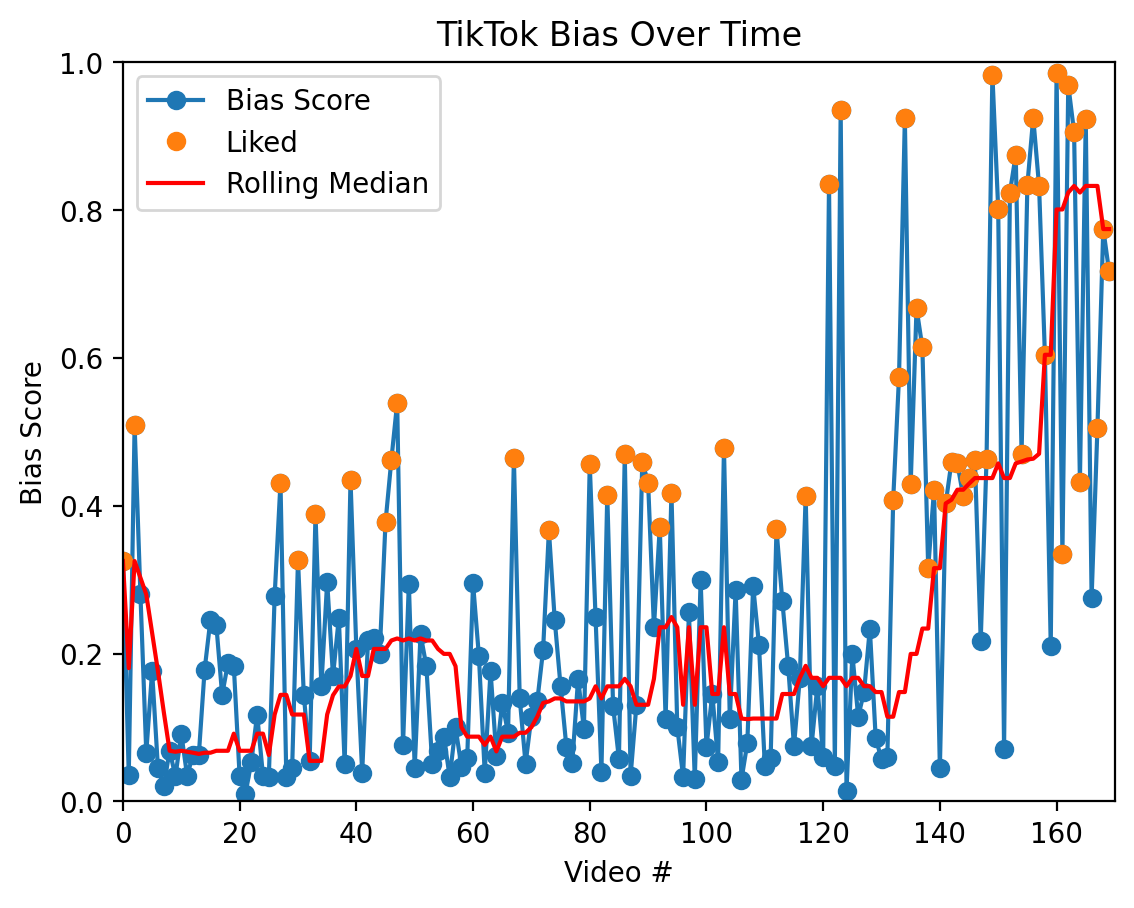
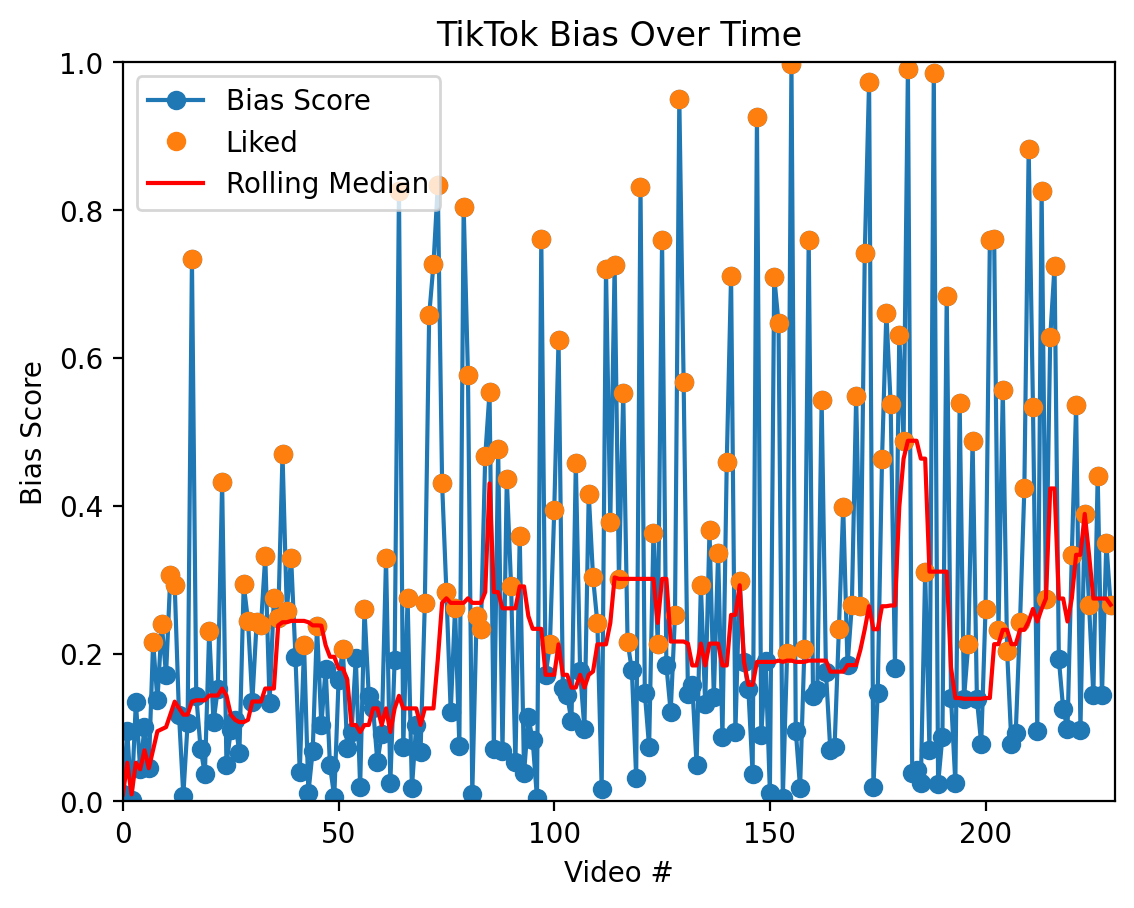
new weights + bug fix
- changed weight values to optimize for complexity
- continues anyways when running into a URL webscraping failiure

Changed region(s): [[0.0926, 0.0617, 0.9877, 0.9251], [0.9259, 0.8943, 0.9568, 0.9251]]

diff --git a/main.py b/main.py
@@ -50,14 +50,21 @@ def genericRunner():
 
         print("getting url...")
         
-        # get url and scrape
-        try:
-            url = webdriver.getUrl()
-            s.getInfo(url, False)
-            print(f"Succeed! {url}")
-        except Exception:
-            print("Fail!")
-            s.description = "bob"
+        while True:
+            # get url and scrape
+            try:
+                url = webdriver.getUrl()
+                print(f"Succeed! {url}")
+                try:
+                    s.getInfo(url, False)
+                    break
+                except Exception:
+                    print("❌URL scraping error❌")
+                    webdriver.scroll()
+                    time.sleep(2)
+            except Exception:
+                print("❌Fail❌")
+                input("URL grab failed, pause the video then press Enter to try again...")
         
         # --- BIAS SCORING ----
         score = c.biasScore(s.description)
@@ -65,7 +72,7 @@ def genericRunner():
 
         # --- COMBINE SCORES ---
         # Formula: ((Text Score * abstractness weight) + (Visual Score * abstractness weight))
-        concrete_weight = [0.5, 0.5] # format: [text weight, visual weight]
+        concrete_weight = [0.4, 0.6] # format: [text weight, visual weight]
         abstract_weight = [0.8, 0.2] # more weight to text for abstract concepts
         score_multipliers = lerp(concrete_weight, abstract_weight, abstractness) # adds up to 1.0
         print(f"Text Score: {score:.3f}, Visual Score: {score_visual:.3f}")
@@ -122,11 +129,11 @@ def interactAsTest(i, score):
     
 def interactFullModel(i, score):
     # -- DECISION MAKING ----
-    threshold = 0.3
-    steepness = 1.5
+    threshold = 0.2
+    steepness = 1.2
     max_watchtime = 30.0
-    like_threshold = 0.75
-    save_threshold = 0.9
+    like_threshold = 0.6
+    save_threshold = 0.8
     
     liked = score > threshold
     if liked:
